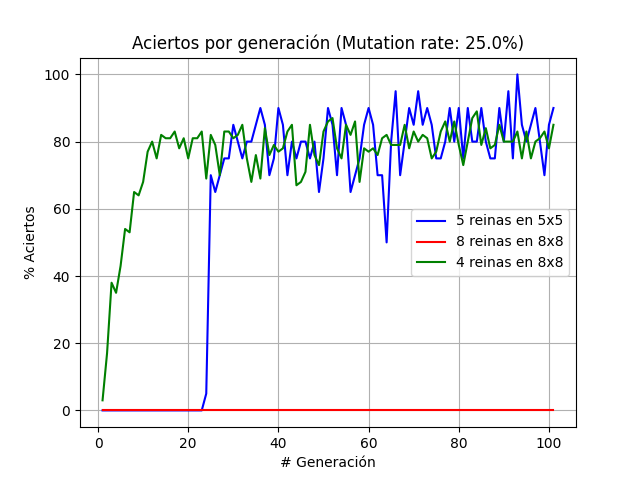
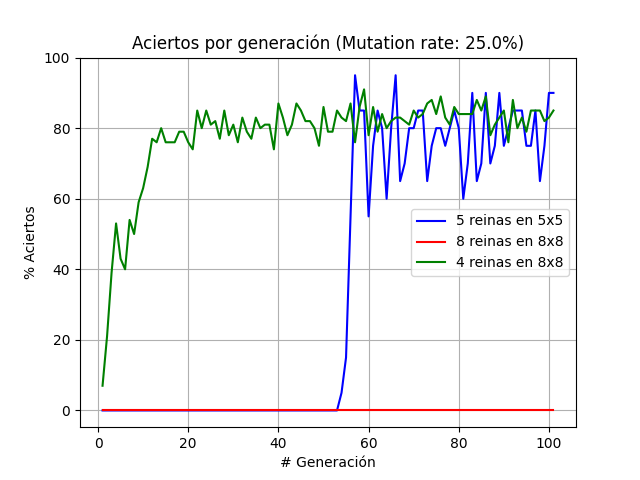
fix en leyenda

diff --git a/T2/N_Queens.py b/T2/N_Queens.py
@@ -198,9 +198,9 @@ report(SOLUTION, GENES_CHOICES, GENES_NUMBER, SCORE_FUNCTION, POPULATION_NUMBER,
 # ax1.set_title("Score total poblacional (Mutation rate: %s%%)" % (MUTATION_RATE*100))
 # ax1.set_xlabel("# Generación")
 # ax1.set_ylabel("% Score total poblacional")
-# ax1.plot(generations1,total_score1, color="blue", label="5 reinas en 8x8")
-# ax1.plot(generations2,total_score2, color="red", label="20 reinas en 20x20")
-# ax1.plot(generations3,total_score3, color='g', label="100 reinas en 100x100")
+# ax1.plot(generations1,total_score1, color="blue", label="5 reinas en 5x5")
+# ax1.plot(generations2,total_score2, color="red", label="8 reinas en 8x8")
+# ax1.plot(generations3,total_score3, color='g', label="4 reinas en 8x8")
 # plt.legend()
 # plt.grid()
 # plt.yticks(range(0, 101, 20))
